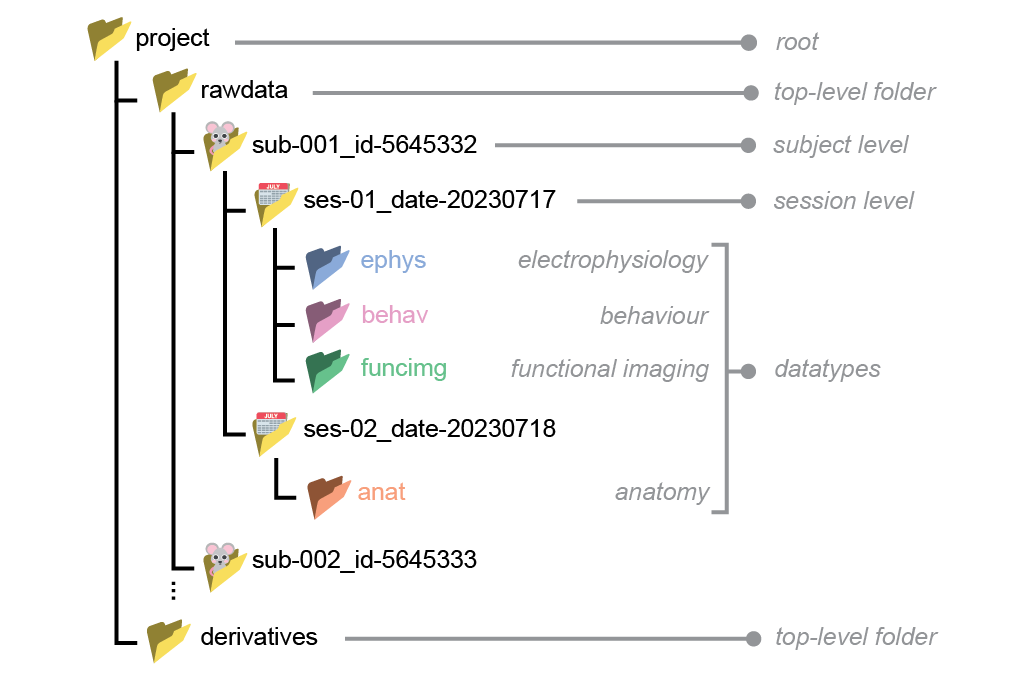
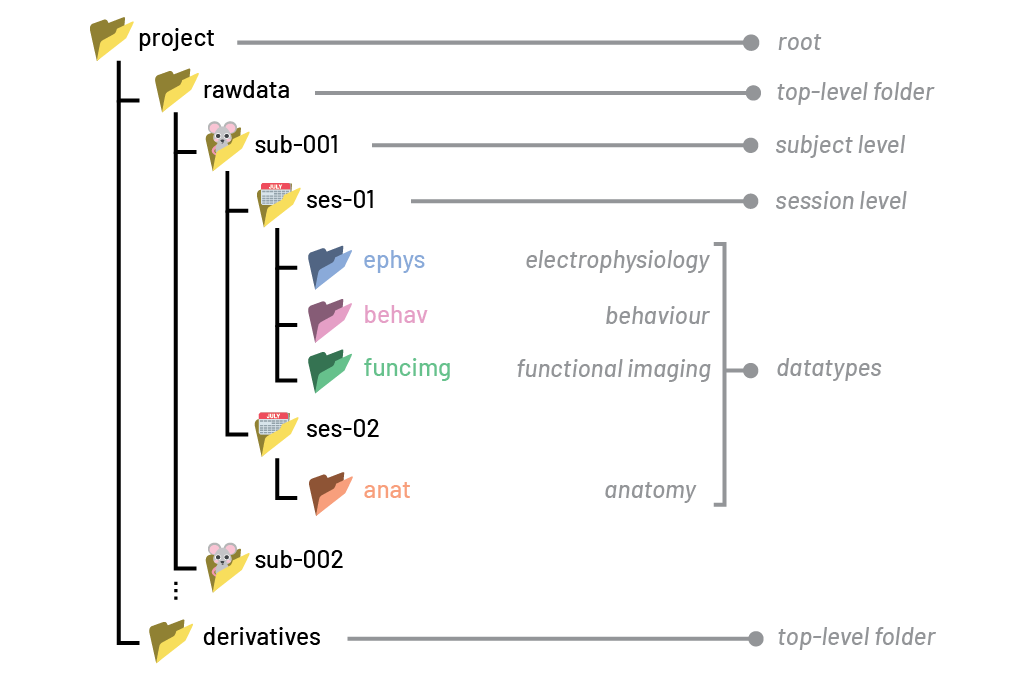
Update image, add new section to paper.

diff --git a/joss-paper/paper.md b/joss-paper/paper.md
@@ -46,7 +46,9 @@ The past decade has seen significant progress in the development of neuroscience
 
 Development and dissemination of comprehensive standards has been driven by community organisations such as the International Neuroinformatics Coordinating Facility (INCF) [@Abrams:2022]. This includes adoption of the FAIR principles [@Abrams:2022; @Wilkinson:2016] ensuring data are Findable, Accessible, Interoperable and Reusable.  Important standardisation initiatives include the Brain Imaging Dataset Structure (BIDS) [@Gorgolewski:2016], a file, folder and metadata standard widely used in neuroimaging, and the open file format Neurodata Without Borders [@Rubel:2022]. These initiatives aim to achieve ‘full’ standardisation that enables automated analysis of machine-readable experimental datasets.
 
-However, the adoption of data standards in systems neuroscience is not yet widespread [@Klingner:2023]. This is due in part to the inherent, and necessary, complexity required to achieve full standardisation [@Pierre:2024] and lack of user-friendly tools to automate management of standardised projects without requiring coding experience. Further, not all systems neuroscience methods have a corresponding data specification (e.g. fibre photometry). Researchers often default to custom folder structures in lieu of full standardisation, leading to inconsistencies both across and within laboratories.
+There is currently a rich ecosystem of tooling for working with standardized data, although these tools typically requires coding experience to use. BIDS [@Gorgolewski:2017] and NWB [@Teeters:2015; @Rubel:2022] each have rich software ecosystems. NWB provides tools for the reading, writing, editing and validation of NWB files [@pynwb:2025; @NWBinspector:2025v064], alongside infrastructure for visualizing and sharing [@Magland:2025]. The BIDS community have developed many packages for converting raw (mostly neuroimaging) data to BIDS format [@Gorgolewski:2020], as well as reading, writing and validating BIDS formatted folders, files and metadata [@Yarkoni:2019; @Gorgolewski:2020]. ezBIDs [@Levitas:2024] provides a web-based GUI for conversion and sharing of BIDS datasets, though it is focused on neuroimaging rather than neuroscience more generally. Further, DataLad [@Halchenko:2021] is a software for the version control and transfer of large datasets, often used within the BIDS community for distributing neuroimaging data. While highly valuable, these tools generally require coding experience, raw data conversion and good understanding of the underlying data scheme to use, with functionality distributed over multiple packages.
+
+The adoption of data standards in systems neuroscience is not yet widespread [@Klingner:2023]. This is due in part to the inherent, and necessary, complexity required to achieve full standardisation [@Pierre:2024] and lack of tools to automate the full management of standardised projects without requiring coding experience. Further, not all systems neuroscience methods have a corresponding data specification (e.g. fibre photometry). Researchers often default to custom folder structures in lieu of full standardisation, leading to inconsistencies both across and within laboratories.
 
 Datashuttle aims to bridge the gap between ‘no standardisation’ and full standardisation by implementing a simple specification called ‘NeuroBlueprint’ [@Ziminski:2025] (\autoref{fig:neuroblueprint-standard}). NeuroBlueprint mandates only folder naming and structure conventions, while recommending file and metadata-naming schemes. It is designed to be easy to adopt, meaning it is suitable for the busy data-acquisition stages of a project in which applying full standardisation is often too onerous. The structure and format are heavily inspired by BIDS, in order to reduce redundancy across specifications and facilitate later transition to this more comprehensive schema. This means that while NeuroBlueprint is not sufficiently standardised to ensure data are FAIR, it provides an easy-to-use starting point that requires relatively little effort to adopt.
 